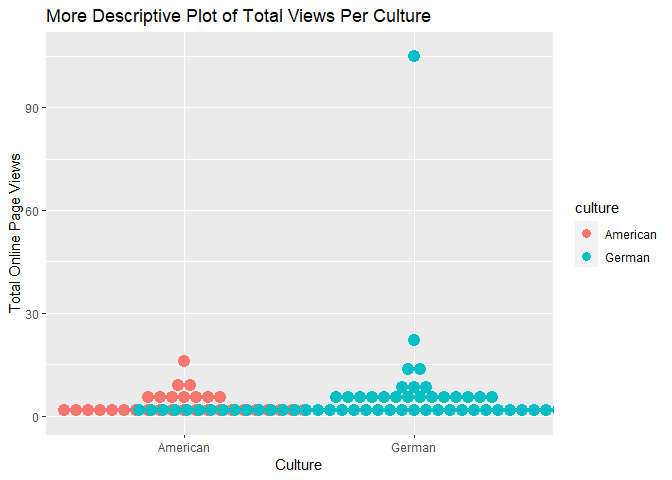
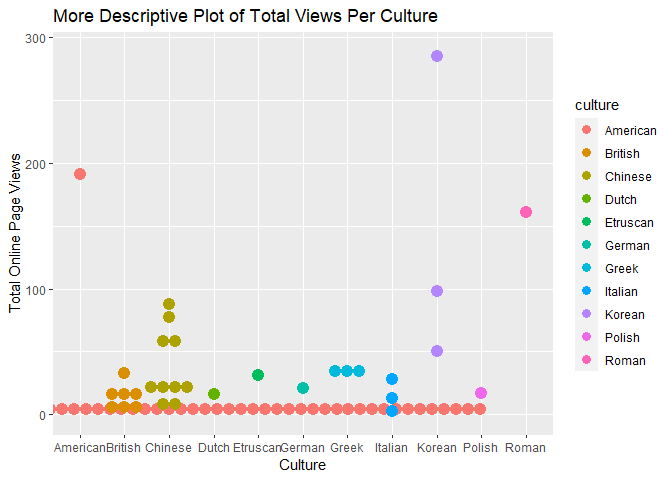
last time maybe

diff --git a/README.html b/README.html
@@ -1163,7 +1163,7 @@ would be my top guesses for the most viewed culture.</p>
 <span id="cb28-4"><a href="#cb28-4" tabindex="-1"></a>                              <span class="fu">labs</span>(<span class="at">title =</span> <span class="st">&quot;Total Views Per Culture&quot;</span>, <span class="at">x =</span> <span class="st">&quot;Culture&quot;</span>, <span class="at">y =</span> <span class="st">&quot;Total Online Page Views&quot;</span>)  </span>
 <span id="cb28-5"><a href="#cb28-5" tabindex="-1"></a><span class="co">#Returning the plot  </span></span>
 <span id="cb28-6"><a href="#cb28-6" tabindex="-1"></a>cult_views_plot4  </span></code></pre></div>
[2 lines of base64/hex data omitted]
 <p>This jitter plot of the total views per culture is very interesting.
 Before adding the coloring aesthetic to the jitter arguments, this plot
 only showed American and German views, and there was one extremely high
@@ -1196,13 +1196,13 @@ culture and a high outlier in American culture.</p>
 ## 10    54776 20th century American              7
 ## # ℹ 90 more rows</code></pre>
 <div class="sourceCode" id="cb31"><pre class="sourceCode r"><code class="sourceCode r"><span id="cb31-1"><a href="#cb31-1" tabindex="-1"></a><span class="co">#Make a dotplot to demonstrate the totalpageviews per culture  </span></span>
-<span id="cb31-2"><a href="#cb31-2" tabindex="-1"></a>cult_views_plot5 <span class="ot">&lt;-</span> <span class="fu">ggplot</span>(obj_tbl, <span class="fu">aes</span>(<span class="at">x =</span> culture, <span class="at">y =</span> totalpageviews)) <span class="sc">+</span> </span>
+<span id="cb31-2"><a href="#cb31-2" tabindex="-1"></a>cult_views_plot5 <span class="ot">&lt;-</span> <span class="fu">ggplot</span>(obj_tbl5, <span class="fu">aes</span>(<span class="at">x =</span> culture, <span class="at">y =</span> totalpageviews)) <span class="sc">+</span> </span>
 <span id="cb31-3"><a href="#cb31-3" tabindex="-1"></a>                              <span class="fu">geom_dotplot</span>(<span class="fu">aes</span>(<span class="at">fill =</span> culture, <span class="at">color =</span> culture), <span class="at">binaxis =</span> <span class="st">&quot;y&quot;</span>, <span class="at">stackdir =</span> <span class="st">&quot;center&quot;</span>) <span class="sc">+</span> </span>
 <span id="cb31-4"><a href="#cb31-4" tabindex="-1"></a>                              <span class="fu">labs</span>(<span class="at">title =</span> <span class="st">&quot;More Descriptive Plot of Total Views Per Culture&quot;</span>, <span class="at">x =</span> <span class="st">&quot;Culture&quot;</span>, <span class="at">y =</span> <span class="st">&quot;Total Online Page Views&quot;</span>)  </span>
 <span id="cb31-5"><a href="#cb31-5" tabindex="-1"></a><span class="co">#Returning the plot  </span></span>
 <span id="cb31-6"><a href="#cb31-6" tabindex="-1"></a>cult_views_plot5  </span></code></pre></div>
 <pre><code>## Bin width defaults to 1/30 of the range of the data. Pick better value with `binwidth`.</code></pre>
[2 lines of base64/hex data omitted]
 <p>This dot plot did exactly as I expected. With some shifts to the bin,
 this plot might also have less overlap in the points; however, the
 points of the American views do extend far in the graph. I believe this

diff --git a/README.md b/README.md
@@ -701,7 +701,7 @@ obj_tbl5 <- object_info("1d505e26-5d36-4674-a35b-c40cab886778")
 
 ``` r
 #Make a dotplot to demonstrate the totalpageviews per culture  
-cult_views_plot5 <- ggplot(obj_tbl, aes(x = culture, y = totalpageviews)) + 
+cult_views_plot5 <- ggplot(obj_tbl5, aes(x = culture, y = totalpageviews)) + 
                               geom_dotplot(aes(fill = culture, color = culture), binaxis = "y", stackdir = "center") + 
                               labs(title = "More Descriptive Plot of Total Views Per Culture", x = "Culture", y = "Total Online Page Views")  
 #Returning the plot  
